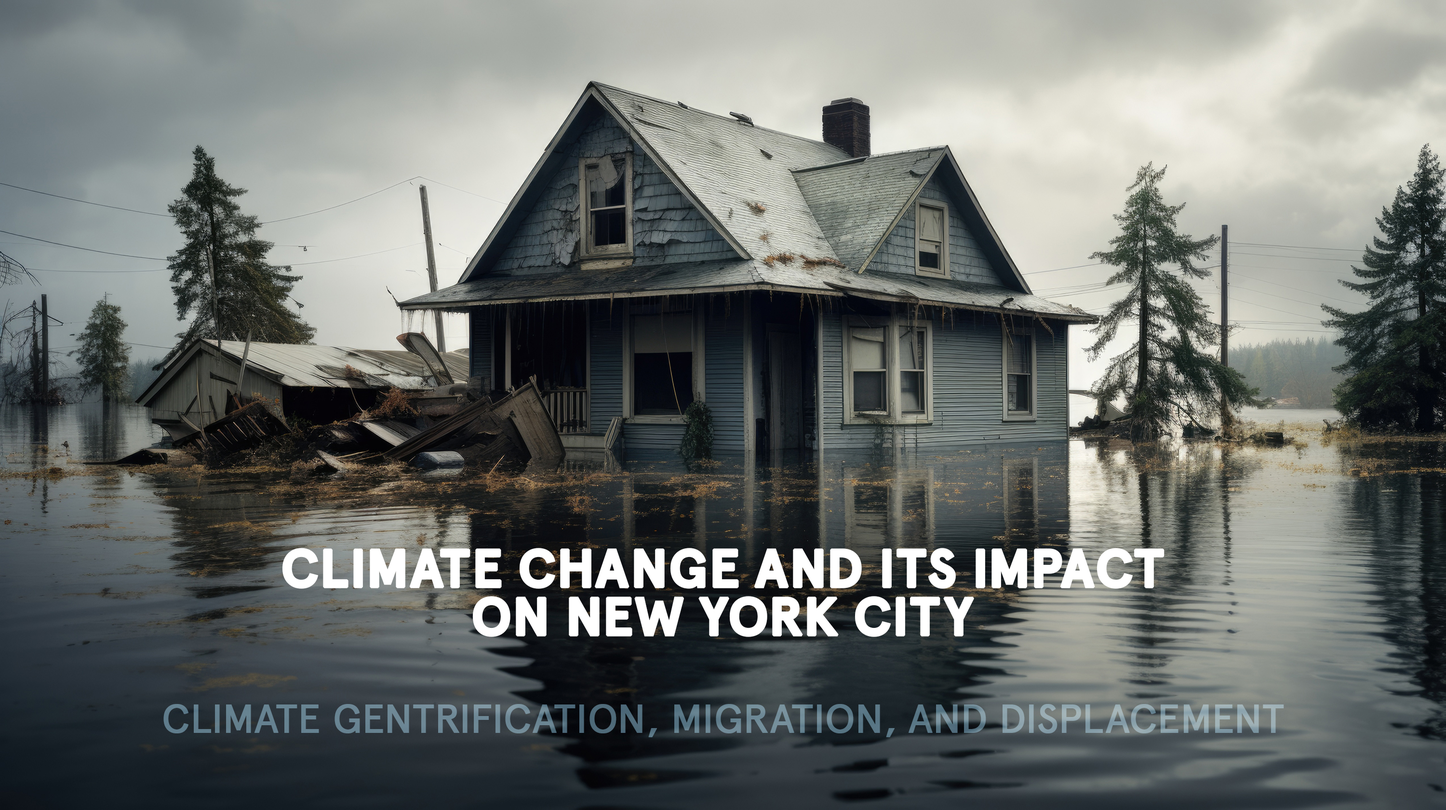
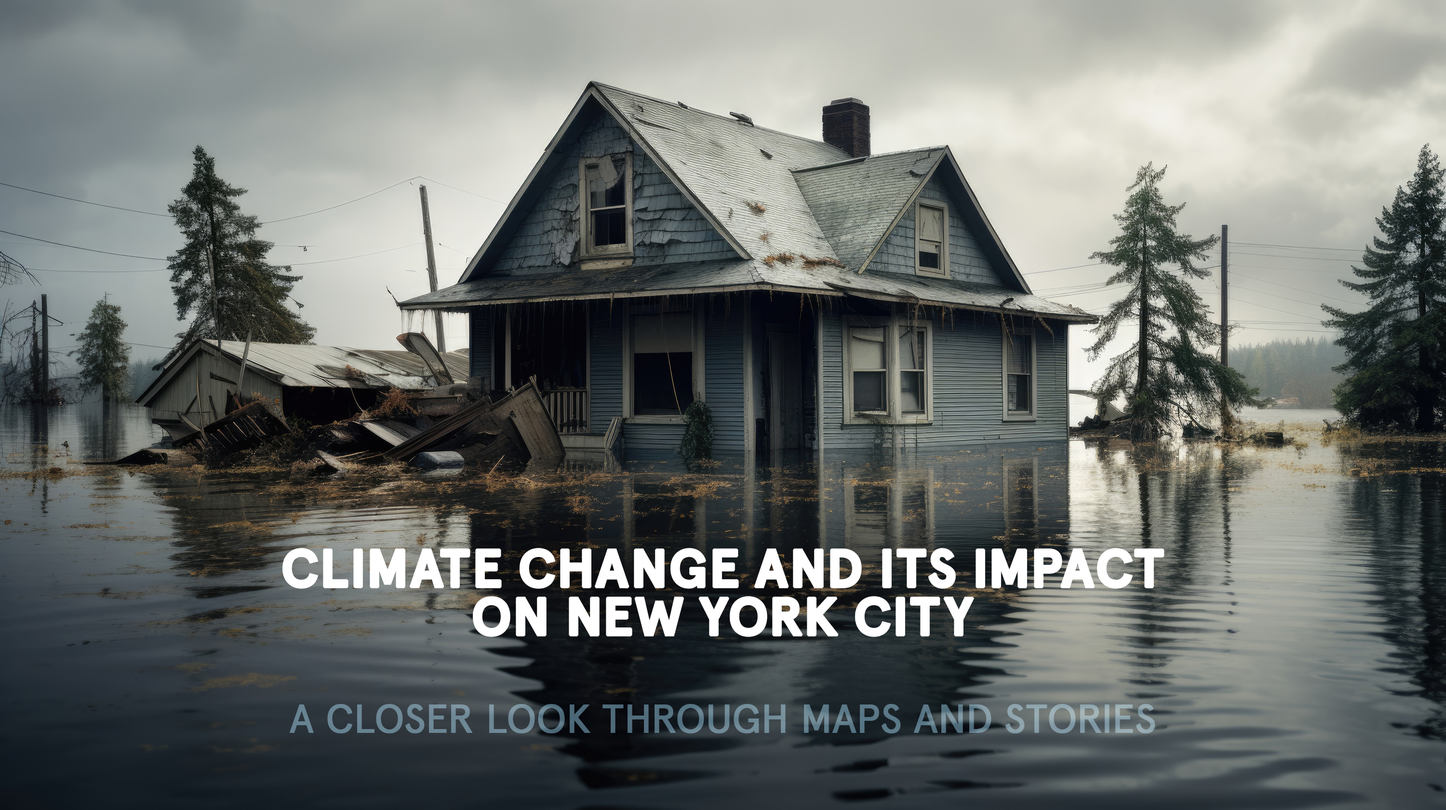
header, content, toggle box, responsive

Changed region(s): [[0.093, 0.8662, 0.899, 0.928]]

diff --git a/index.html b/index.html
@@ -11,62 +11,58 @@
 </head>
 
 <body>
-    <!-- Header with navigation menu -->
-    <header>
-        <div id="headerImage">
-            <!-- Header image for visual appeal and branding -->
-            <img src="images/nycem-header.jpg" alt="Header Image">
-        </div>
-        <nav>
-            <!-- Navigation menu for anchor links to sections -->
-            <ul>
-                <li><a href="#climateGentrification">Climate Gentrification</a></li>
-                <li><a href="#climateMigration">Climate Migration</a></li>
-                <li><a href="#climateDisplacement">Climate Displacement</a></li>
-            </ul>
-        </nav>
-    </header>
+    <!-- Full-size header image -->
+    <div id="fullSizeHeader">
+        <img src="images/nycem-header.jpg" alt="Header Image">
+    </div>
 
-    <!-- Main content area -->
+    <!-- Static navigation bar -->
+    <nav>
+        <!-- Navigation menu for anchor links to sections -->
+        <ul>
+            <li><a href="#climateGentrification">Climate Gentrification</a></li>
+            <li><a href="#climateMigration">Climate Migration</a></li>
+            <li><a href="#climateDisplacement">Climate Displacement</a></li>
+        </ul>
+    </nav>
+
+    <!-- Introduction Content - Add a storytelling narrative -->
     <main>
         <h1 id="pageTitle">NYC Climate Risks & Housing Mobility</h1>
         <p>
-            In the face of climate change, cities around the globe are grappling with a trio of interconnected
-            phenomena: climate gentrification, migration, and displacement. New York City, with its diverse population
-            and complex urban landscape, stands at the forefront of this challenge. As we delve into the intricacies of
-            these issues, it's crucial to understand not only their definitions but also their profound implications for
-            communities and urban planning.
+            In the face of climate change, cities around the globe are grappling with a trio of interconnected phenomena: climate gentrification, migration, and displacement. New York City, with its diverse population and complex urban landscape, stands at the forefront of this challenge. As we delve into the intricacies of these issues, it's crucial to understand not only their definitions but also their profound implications for communities and urban planning.
         </p>
     </main>
 
+    <main>
     <!-- Scrollytelling sections -->
     <!-- Section for Climate Gentrification -->
     <section id="climateGentrification" class="scroll-section">
         <h2>Climate Gentrification</h2>
-        <p>Content about Climate Gentrification...</p>
+        <p>Climate Gentrification refers to the phenomenon where neighborhoods less susceptible to climate change impacts become more desirable, leading to increased property values and the displacement of lower-income residents. This process is significant because it underscores the intersection of climate resilience and social inequality. In New York City, this is observed in areas like the Brooklyn waterfront, where post-industrial neighborhoods perceived as safer from sea-level rise have seen a surge in development. This has led to the displacement of long-standing, lower-income communities, highlighting the need for inclusive urban planning.</p>
     </section>
 
     <!-- Section for Climate Migration -->
     <section id="climateMigration" class="scroll-section">
         <h2>Climate Migration</h2>
-        <p>Content about Climate Migration...</p>
+        <p>Climate Migration is the movement of people, either within their country or across borders, driven by sudden or gradual changes in their environment due to climate change. This migration is crucial to understand because it reflects the direct human impact of climate change. In the context of New York City, climate migration manifests through the influx of individuals from regions severely affected by climate change, showcasing internal climate migration. This underscores the importance of preparing urban areas for the influx of climate migrants.</p>
     </section>
 
     <!-- Section for Climate Displacement -->
     <section id="climateDisplacement" class="scroll-section">
         <h2>Climate Displacement</h2>
-        <p>Content about Climate Displacement...</p>
+        <p>Climate Displacement occurs when individuals or communities are forced to leave their homes due to climate change-induced environmental changes. This displacement is a critical issue as it highlights the urgent need for climate adaptation and mitigation strategies. In New York City, the aftermath of Hurricane Sandy provided a stark example of climate displacement, with initiatives like the state's buyout program in Staten Island's Oakwood Beach. This case illustrates the complex challenges of managing climate displacement.</p>
     </section>
     </main>
 
-    <!-- Move the #content div with buttons and toggle box to the very bottom -->
+    <!-- Content with buttons and toggle box at the bottom -->
     <div id="content">
         <!-- Buttons to dynamically update content below -->
-        <button id="btnClimateGentrification">Climate Gentrification</button>
+        <button id="btnEquityInMitigation">Equity in Mitigation</button>
         &nbsp;&nbsp;
-        <button id="btnMigration">Climate Migration</button>
+        <button id="btnCommunityResilience">Community Resilience</button>
         &nbsp;&nbsp;
-        <button id="btnDisplacement">Climate Displacement</button>
+        <button id="btnInfrastructureProtection">Infrastructure Protection</button>
         <div id="definitionBox">
             <!-- Separate elements for title and content to allow for dynamic updates -->
             <h2 id="definitionTitle">Explore the Impacts</h2>
@@ -74,8 +70,6 @@
         </div>
     </div>
 
-
     <script src="scripts.js"></script>
 </body>
-
 </html>

diff --git a/scripts.js b/scripts.js
@@ -13,36 +13,36 @@ $(document).ready(function() {
       $('#placeholderImage').attr('src', imagePath).attr('alt', imageAlt);
   }
 
-  // Event handler for the Climate Gentrification button
-  $('#btnClimateGentrification').click(function() {
+  // Event handler for the Equity in Mitigation button
+  $('#btnEquityInMitigation').click(function() {
       updateContent(
           $(this), 
-          'Climate Gentrification',
-          'Climate Gentrification refers to the phenomenon where neighborhoods less susceptible to climate change impacts become more desirable, leading to increased property values and the displacement of lower-income residents. This process is significant because it underscores the intersection of climate resilience and social inequality. <br><br> In New York City, this is observed in areas like the Brooklyn waterfront, where post-industrial neighborhoods perceived as safer from sea-level rise have seen a surge in development. This has led to the displacement of long-standing, lower-income communities, highlighting the need for inclusive urban planning.',
-          'path/to/climate_gentrification_image.jpg',
-          'Climate Gentrification Image'
+          'Equity in Mitigation',
+          'Discuss the importance of considering social vulnerability and how the city plans to support the most vulnerable populations during disasters.',
+          'path/to/equity_in_mitigation_image.jpg',
+          'Equity in Mitigation Image'
       );
   });
 
-  // Event handler for the Climate Migration button
-  $('#btnMigration').click(function() {
+  // Event handler for the Community Resilience button
+  $('#btnCommunityResilience').click(function() {
       updateContent(
           $(this), 
-          'Climate Migration',
-          'Climate Migration is the movement of people, either within their country or across borders, driven by sudden or gradual changes in their environment due to climate change. This migration is crucial to understand because it reflects the direct human impact of climate change. <br><br> In the context of New York City, climate migration manifests through the influx of individuals from regions severely affected by climate change, showcasing internal climate migration. This underscores the importance of preparing urban areas for the influx of climate migrants.',
-          'path/to/climate_migration_image.jpg',
-          'Climate Migration Image'
+          'Community Resilience',
+          'Highlight local initiatives and workshops aimed at educating the public on hazard mitigation and preparedness measures.',
+          'path/to/community_resilience_image.jpg',
+          'Community Resilience Image'
       );
   });
 
-  // Event handler for the Climate Displacement button
-  $('#btnDisplacement').click(function() {
+  // Event handler for the Infrastructure Protection button
+  $('#btnInfrastructureProtection').click(function() {
       updateContent(
           $(this), 
-          'Climate Displacement',
-          'Climate Displacement occurs when individuals or communities are forced to leave their homes due to climate change-induced environmental changes. This displacement is a critical issue as it highlights the urgent need for climate adaptation and mitigation strategies. <br><br> In New York City, the aftermath of Hurricane Sandy provided a stark example of climate displacement, with initiatives like the state\'s buyout program in Staten Island\'s Oakwood Beach. This case illustrates the complex challenges of managing climate displacement.',
-          'path/to/climate_displacement_image.jpg',
-          'Climate Displacement Image'
+          'Infrastructure Protection',
+          'Outline specific structural measures and policies designed to reduce risks and ensure the continuity of essential services.',
+          'path/to/infrastructure_protection_image.jpg',
+          'Infrastructure Protection Image'
       );
   });
 

diff --git a/styles.css b/styles.css
@@ -1,19 +1,38 @@
 body {
-  /* Remove the background-image line and add a neutral blue background color */
-  background-color: #e7ecef; /* This is a soft, neutral blue. Adjust the color as needed. */
+  /* Updated body styles */
+  background-color: #e7ecef; /* Neutral background color */
   font-family: Arial, sans-serif;
-  background-size: cover;
-  background-position: center;
-  background-repeat: no-repeat;
-  /* Updated to scroll with the content */
-  background-attachment: scroll; 
-  font-family: Arial, sans-serif;
+  margin: 0;
+  padding-top: 0px; /* Updated to remove padding */
 }
 
-#headerImage img {
-  /* Ensuring the image is responsive */
-  max-width: 100%;
-  height: auto;
+/* Full-size header image styles */
+#fullSizeHeader img {
+  width: 100vw; /* Full width of the viewport */
+  height: auto; /* Updated to auto to adjust height dynamically */
+  object-fit: cover; /* Cover the entire area without stretching */
+}
+
+/* Style for larger screens */
+#fullSizeHeader img {
+  width: 100%;
+  height: auto; /* Updated to auto to adjust height dynamically */
+}
+
+/* Media query for screens smaller than 500px */
+@media screen and (max-width: 500px) {
+  #fullSizeHeader img {
+    /* Adjust the size of the image for smaller screens */
+    width: 50%;
+    height: auto;
+  }
+}
+
+/* Main content CSS */
+
+main {
+  padding: 20px; /* Adds padding inside the main element */
+  margin: 20px; /* Adds margin outside the main element */
 }
 
 #pageTitle {
@@ -24,6 +43,7 @@ body {
 
 #content {
   margin: 20px;
+  padding: 20px;
   text-align: center;
 }
 
@@ -38,7 +58,7 @@ body {
 
 button {
   background-color: initial;
-  background-image: linear-gradient(#8614f8 0, #760be0 100%);
+  background-image: linear-gradient(#2a6587 0, #82aabf 100%);
   border-radius: 20px;
   border-style: none;
   box-shadow: rgba(245, 244, 247, .25) 0 1px 1px inset;
@@ -66,7 +86,7 @@ button:hover {
 }
 
 button.active {
-  background-image: linear-gradient(#2d8dd5 0, #6660ee 100%);
+  background-image: linear-gradient(#2b3438 0, #475b64 100%);
 }
 
 @media screen and (max-width: 1000px) {
@@ -88,8 +108,20 @@ header {
   z-index: 1000;
 }
 
+/* Static navigation bar styles */
+nav {
+  background-color: #000; /* Dark background for the navigation bar */
+  color: #fff;
+  position: fixed; /* Fixed position to keep it static */
+  top: 0; /* Align to the top */
+  width: 100%; /* Full width */
+  z-index: 1000; /* Above other content */
+  padding: 20px 0; /* Increased padding to make the bar thicker */
+}
+
 nav ul {
   list-style-type: none;
+  margin: 0;
   padding: 0;
   text-align: center;
 }
@@ -102,16 +134,10 @@ nav ul li {
 nav ul li a {
   color: #fff;
   text-decoration: none;
-  padding: 5px 10px;
+  padding: 10px 15px;
 }
 
 nav ul li a:hover, nav ul li a:focus {
-  background-color: #575757;
+  background-color: #6c8694;
   border-radius: 5px;
-}
-
-.scroll-section {
-  padding: 50px 20px;
-  margin: 40px 0;
-  border-bottom: 1px solid #ccc;
 }
